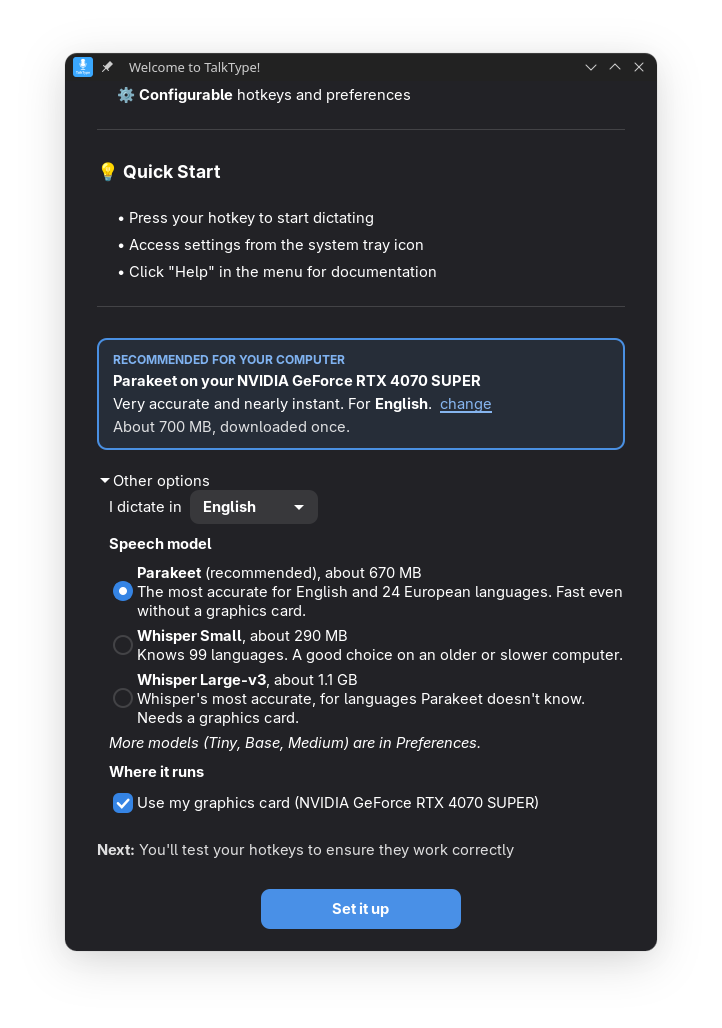
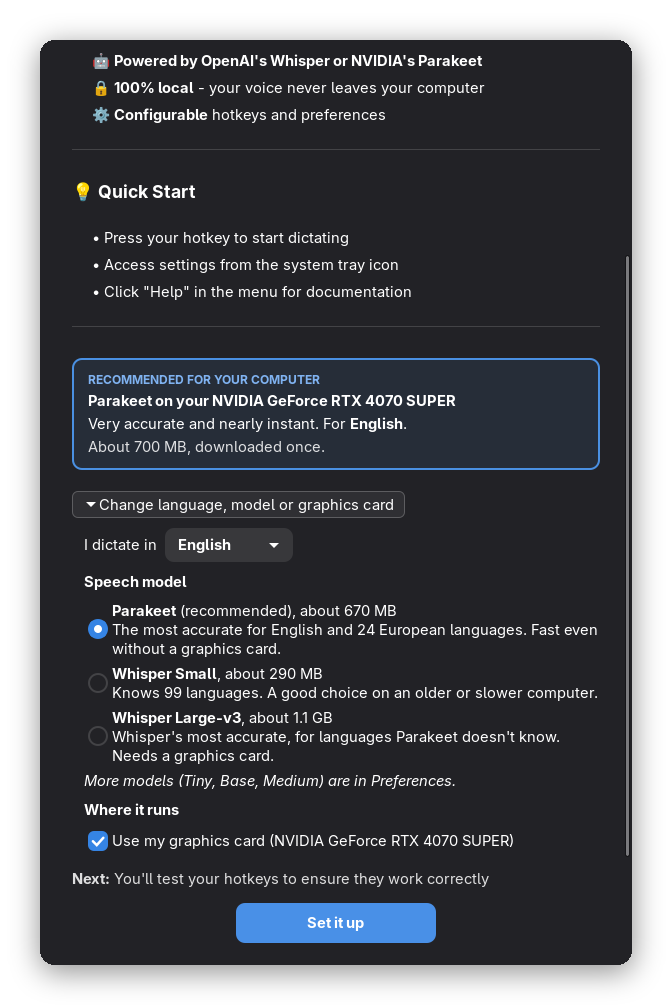
README: a page that shows what TalkType does
A new 30 s demo at the top, recorded by Ron (hold the key, talk, the "no
wait" fix, a spoken email address), with captions so it makes sense with
no sound. A "You say / TalkType types" card and four picture-and-text rows
(setup, Fix a Word, tray, stats) replace the 15-screenshot block; the full
feature list covers 0.14.4/0.14.5; the technical sections fold into
<details>. The welcome screenshots show the current button, not "Other
options". (The unused March clip went in the 0.14.5 release commit.)

Changed region(s): [[0.0312, 0.0308, 0.9688, 0.9871]]

diff --git a/README.md b/README.md
@@ -1,111 +1,94 @@
-# TalkType: voice dictation for Linux
+<p align="center">
+  <img src="io.github.ronb1964.TalkType.png" alt="TalkType" width="110">
+</p>
 
-**Hold a key, talk, let go. Your words show up wherever your cursor is.**
+<h1 align="center">TalkType</h1>
+
+<p align="center">
+  <b>Hold a key, talk, let go. Your words show up wherever your cursor is.</b><br>
+  Free voice dictation for Linux. It runs offline, and it works on Wayland.
+</p>
+
+<p align="center">
+  <a href="https://github.com/ronb1964/TalkType/releases/latest"><img src="https://img.shields.io/github/v/release/ronb1964/TalkType?label=download&color=2ea44f" alt="Download"></a>
+  <a href="https://aur.archlinux.org/packages/talktype-appimage"><img src="https://img.shields.io/aur/version/talktype-appimage" alt="AUR version"></a>
+  <a href="LICENSE"><img src="https://img.shields.io/badge/license-MIT-blue.svg" alt="MIT license"></a>
+  <img src="https://img.shields.io/badge/GNOME%20%C2%B7%20KDE%20%C2%B7%20Sway%20%C2%B7%20X11-supported-555" alt="GNOME, KDE, Sway and X11">
+</p>
+
+<p align="center">
+  <a href="#installation">Install</a> &nbsp;&bull;&nbsp;
+  <a href="#what-it-does">What it does</a> &nbsp;&bull;&nbsp;
+  <a href="#all-the-features">All the features</a> &nbsp;&bull;&nbsp;
+  <a href="CHANGELOG.md">What's new</a>
+</p>
+
+<p align="center">
+  <img src="screenshots/demo.gif" alt="Dictating a letter: you hold the key and talk, the waveform shows TalkType listening, and the words appear. It fixes a 'no wait' correction and turns 'john at gmail dot com' into an email address." width="600">
+</p>
 
 That works on GNOME, KDE, Sway, Hyprland and X11 with no setup, because TalkType reads the key straight from the keyboard instead of asking the desktop for it. Most Linux dictation tools can't do hold-to-talk on Wayland at all.
 
 It's free, it runs completely offline, and nothing you say ever leaves your computer.
 
-[![AUR version](https://img.shields.io/aur/version/talktype-appimage)](https://aur.archlinux.org/packages/talktype-appimage)
-[![GitHub release](https://img.shields.io/github/v/release/ronb1964/TalkType)](https://github.com/ronb1964/TalkType/releases)
-[![License: MIT](https://img.shields.io/badge/License-MIT-blue.svg)](LICENSE)
-[![Linux](https://img.shields.io/badge/platform-Linux-lightgrey)](https://github.com/ronb1964/TalkType)
-
-<p align="center">
-  <img src="screenshots/demo.gif" alt="TalkType in action — press F8, speak, text appears" width="720">
-</p>
-
 ---
 
-## Why TalkType?
-
-Most voice dictation tools on Linux are either cloud-based (privacy concerns), command-line only (not user-friendly), or broken on Wayland. TalkType is different:
-
-- **Global hotkeys that actually work on Wayland** — many Linux dictation tools rely on X11 key grabs (or `pynput`), which Wayland blocks by design. TalkType reads the key at the kernel level via `/dev/input`, below the compositor, so push-to-talk works the same on GNOME, KDE, Sway and Hyprland (X11 too).
-- **100% offline** — All processing happens locally, using Whisper or Parakeet. Nothing is sent to the cloud.
-- **Zero configuration** — Download the AppImage, run it, start talking. First-run wizard handles the rest.
-- **Any desktop environment** — GNOME (with native shell extension), KDE, XFCE, Sway, Hyprland, and more.
-- **Fast without a graphics card** — the Parakeet model gives large-v3 class accuracy in well under a second on an ordinary processor (English and 24 European languages).
-- **GPU accelerated, any brand** — Whisper runs on NVIDIA, AMD or Intel graphics through Vulkan, a 24 MB download. NVIDIA cards can use CUDA (1.4 GB) instead.
-
----
-
-## Screenshots
+## What it does
 
 <p align="center">
-  <img src="screenshots/dictating.png" alt="Dictating a letter in LibreOffice Writer, with TalkType's recording indicator showing" width="90%">
-</p>
-<p align="center">
-  <em>Hold F8 and talk: the orb shows TalkType is listening, and your words land wherever you're typing</em>
+  <img src="screenshots/you-say.png" alt="You say: Let's say three o'clock, no wait, make that four o'clock. TalkType types: Let's say four o'clock. You say: send the plans to john at gmail dot com. TalkType types: john@gmail.com. You say: new paragraph could we meet on Thursday question mark. TalkType types a new paragraph with Could we meet on Thursday?" width="760">
 </p>
 
-<p align="center">
-  <img src="screenshots/welcome-recommended.png" alt="First run: the recommended setup for this computer" width="40%">
-  <img src="screenshots/welcome-other-options.png" alt="First run: Other options, with every choice explained" width="40%">
-</p>
-<p align="center">
-  <em>First run recommends a setup for your computer and language &bull; Other options explains every choice</em>
-</p>
+**It fixes it when you change your mind.** Say "no wait", "scratch that" or "actually" and correct yourself, and a small AI model on your own computer drops the wrong part. Every fix gets checked, and if the AI changed anything else, your words are typed exactly as you said them. It's optional, and it's off until you turn it on.
 
-<p align="center">
-  <img src="screenshots/tray-performance.png" alt="Tray menu with the Performance presets" width="70%">
-</p>
-<p align="center">
-  <em>The tray menu, with the Performance presets</em>
-</p>
+**Commands and addresses come out right.** Say "comma", "new paragraph" or "question mark" and you get the punctuation. Say an email or a web address the way you'd say it out loud and it's written the way it should be.
 
-<p align="center">
-  <img src="screenshots/prefs-general.png" alt="Preferences - General" width="45%">
-  <img src="screenshots/prefs-advanced.png" alt="Preferences - Advanced" width="45%">
-</p>
-<p align="center">
-  <em>Model, graphics card and hotkeys &bull; Dictation cleanup and AI self-corrections</em>
-</p>
+<table>
+<tr>
+<td width="50%"><img src="screenshots/welcome-recommended.png" alt="First run: the recommended setup for this computer"></td>
+<td>
 
-<p align="center">
-  <img src="screenshots/prefs-audio.png" alt="Preferences - Audio" width="45%">
-  <img src="screenshots/prefs-commands.png" alt="Preferences - Commands" width="45%">
-</p>
-<p align="center">
-  <em>Microphone test and recording indicator &bull; Custom voice commands and Fix a Word</em>
-</p>
+### Set up for your computer
 
-<p align="center">
-  <img src="screenshots/prefs-stats.png" alt="Preferences - Stats" width="45%">
-  <img src="screenshots/voice-commands.png" alt="Voice Commands quick reference" width="30%">
-</p>
-<p align="center">
-  <em>Your dictation stats &bull; The Voice Commands quick reference</em>
-</p>
+First run looks at your graphics card and your language and picks a setup for you. On a graphics card, a sentence is typed out in about a fifth of a second. No graphics card is fine too: the default model is fast on an ordinary processor.
 
-<p align="center">
-  <img src="screenshots/help-getting-started.png" alt="Help - Getting Started" width="45%">
-  <img src="screenshots/help-voice-commands.png" alt="Help - Voice Commands" width="45%">
-</p>
-<p align="center">
-  <em>Built-in help with getting started guide &bull; Complete voice commands reference</em>
-</p>
+Want something else? One button shows every choice, with what it costs you in download size and speed.
 
----
+</td>
+</tr>
+<tr>
+<td>
 
-## Features
+### Teach it your words
 
-- **Dual Hotkeys Always Active** - F8 (hold-to-talk) AND F9 (tap-to-toggle) simultaneously - fully customizable
-- **Hands-free** (optional) - Double-tap F9, talk, and the recording stops by itself when you go quiet. A single tap is still a normal on/off toggle, so long dictation with thinking pauses is never cut off
-- **AI-Powered Transcription** - OpenAI's Whisper models (tiny to large-v3), or NVIDIA's Parakeet for fast, accurate dictation with no GPU
-- **GPU Acceleration** - Use your graphics card for much faster transcription. Vulkan (a 24 MB download) works on NVIDIA, AMD and Intel; on NVIDIA you can also use CUDA (1.4 GB). TalkType times your graphics chip against your processor first and only uses it if it's faster
-- **Smart Text Processing** - Auto-punctuation, smart quotes, auto-spacing
-- **Voice Commands** - Say "comma", "period", "new paragraph", "undo last word", and more
-- **Custom Commands** - Define your own phrase shortcuts (e.g., "my email" → your@email.com)
-- **Visual Feedback** - On-screen recording indicator that reacts to your voice, with four styles (orb, waveform, frequency bars, radial), custom colors, and positioning anywhere on screen
-- **Dictation Cleanup** (optional) - Remove "um", "uh" and accidentally repeated words instantly, and optionally let a small AI model that runs on your own computer fix self-corrections ("meet at 3, no wait, 4" becomes "meet at 4"). Every AI edit is checked, and if it changed anything besides the correction your words are typed exactly as spoken. The AI uses your graphics card if you have one (NVIDIA, AMD or Intel) and your processor otherwise
-- **Fix a Word** - Teach TalkType a word it keeps getting wrong. Pick it out of a recent dictation, type the right spelling, and it's fixed in every dictation from then on. Great for names, brands and technical terms, and it works with every speech model
-- **Your Stats** - Pick Your Stats from the tray menu to see how many words you've dictated today, this week and all time, how much typing time it saved (at your own typing speed), and a chart of the last two weeks. Only the numbers are kept, on your computer, never what you said
-- **Recent Dictations** - Your last 20 dictations in the tray menu. Hover to read one, click to copy it again, handy when text lands in the wrong window. Kept in memory only and wiped at logout
-- **Private by Default** - Fully offline transcription, and your dictated text is never written to the log (opt-in only, for troubleshooting)
-- **GNOME Integration** - Native shell extension for GNOME desktop
-- **Smart Updates** - Built-in update checker that updates the right way for how you installed: through your package manager on `.deb`/`.rpm` (one click, one password prompt), in place for the AppImage, or via your AUR helper on Arch
-- **Wayland Native** - Works seamlessly on modern Linux desktops
+Names, brands, the part numbers you use every day. If TalkType keeps getting one wrong, pick it out of a recent dictation with **Fix a Word**, type it the right way, and it's fixed from then on.
+
+You can also make your own shortcuts, like "my email" for your address.
+
+</td>
+<td width="50%"><img src="screenshots/prefs-commands.png" alt="Preferences, Commands tab: custom voice commands and Fix a Word"></td>
+</tr>
+<tr>
+<td width="50%"><img src="screenshots/tray-performance.png" alt="Tray menu with the Performance presets"></td>
+<td>
+
+### Everything from the tray
+
+Start and stop dictation, switch between Recommended, Lightest and Battery saver, or grab one of your last 20 dictations back if the text landed in the wrong window. Those are kept in memory only and gone when you log out.
+
+</td>
+</tr>
+<tr>
+<td>
+
+### See how much typing it saves you
+
+Your Stats shows the words you've dictated today, this week and all time, and how long it would've taken to type them. Only the numbers are kept, never what you said.
+
+</td>
+<td width="50%"><img src="screenshots/prefs-stats.png" alt="Preferences, Stats tab"></td>
+</tr>
+</table>
 
 ---
 
@@ -195,7 +178,65 @@ enough interest and I'll make it happen.
 
 ---
 
-## Voice Commands
+## All the features
+
+- **Two hotkeys, both always on.** Hold F8 to talk, or tap F9 to start and tap again to stop. Pick any keys you like.
+- **Hands-free if you want it.** Double-tap F9, talk, and it stops by itself when you go quiet. A single tap still works as a plain on/off switch, so a long dictation with thinking pauses never gets cut off.
+- **Your choice of speech model.** NVIDIA's Parakeet is the default: fast on any processor, for English and 24 European languages. OpenAI's Whisper covers 99 languages, from Tiny up to Large-v3.
+- **Any graphics card.** NVIDIA, AMD or Intel through Vulkan, a 24 MB download. On NVIDIA you can use CUDA instead. TalkType times your graphics chip against your processor first and only uses it if it's really faster.
+- **Corrections.** Say "no wait", "scratch that", "I mean" or "actually" and the optional AI fixes it. It also drops "um", "uh" and stutters.
+- **Voice commands.** "comma", "period", "new paragraph", "undo last word", "delete last three sentences" and more. See the full list below.
+- **Email and web addresses.** "john at gmail dot com" types john@gmail.com, and "github dot com" types github.com.
+- **Your own commands.** Make a phrase type anything you want, like "my email" for your address.
+- **Fix a Word.** Teach it a name or term it keeps getting wrong.
+- **Recent Dictations.** Your last 20, one click to copy. Kept in memory only.
+- **Your Stats.** Words dictated and typing time saved, at your own typing speed.
+- **A recording indicator you can style.** Orb, waveform, frequency bars or radial, any color, anywhere on screen. It reacts to your voice so you know it's listening.
+- **Tells you why when it can't type.** If a dictation can't be typed into the window, TalkType says why and what fixes it.
+- **Private.** Everything runs on your computer, and what you dictate is never written to a log unless you turn that on for troubleshooting.
+- **GNOME extension.** A native panel menu on GNOME, and a tray icon everywhere else.
+- **Updates the right way.** Through your package manager for the .deb and .rpm, in place for the AppImage, or through your AUR helper on Arch.
+
+---
+
+## More
+
+<details>
+<summary><b>More screenshots</b></summary>
+
+<p align="center">
+  <img src="screenshots/dictating.png" alt="Dictating a letter in LibreOffice Writer, with TalkType's recording indicator showing" width="90%">
+</p>
+<p align="center"><em>Hold F8 and talk: the indicator shows TalkType is listening, and your words land wherever you're typing</em></p>
+
+<p align="center">
+  <img src="screenshots/welcome-recommended.png" alt="First run: the recommended setup for this computer" width="40%">
+  <img src="screenshots/welcome-other-options.png" alt="First run: changing the language, model or graphics card" width="40%">
+</p>
+<p align="center"><em>First run recommends a setup &bull; one button shows every choice</em></p>
+
+<p align="center">
+  <img src="screenshots/prefs-general.png" alt="Preferences, General" width="45%">
+  <img src="screenshots/prefs-advanced.png" alt="Preferences, Advanced" width="45%">
+</p>
+<p align="center"><em>Model, graphics card and hotkeys &bull; Dictation cleanup and AI self-corrections</em></p>
+
+<p align="center">
+  <img src="screenshots/prefs-audio.png" alt="Preferences, Audio" width="45%">
+  <img src="screenshots/voice-commands.png" alt="Voice Commands quick reference" width="30%">
+</p>
+<p align="center"><em>Microphone test and recording indicator &bull; The Voice Commands quick reference</em></p>
+
+<p align="center">
+  <img src="screenshots/help-getting-started.png" alt="Help, Getting Started" width="45%">
+  <img src="screenshots/help-voice-commands.png" alt="Help, Voice Commands" width="45%">
+</p>
+<p align="center"><em>Built-in help</em></p>
+
+</details>
+
+<details>
+<summary><b>Voice commands, the full list</b></summary>
 
 ### Punctuation
 | Say This | Result |
@@ -240,9 +281,10 @@ Say **"literal"** before any command to output the word instead:
 - "literal comma" → types "comma" (not ,)
 - "literal period" → types "period" (not .)
 
----
+</details>
 
-## AI Models
+<details>
+<summary><b>Speech models</b></summary>
 
 Choose the right model for your needs in Preferences → General:
 
@@ -258,9 +300,10 @@ Choose the right model for your needs in Preferences → General:
 > **Tip:** First run recommends a setup for your computer and language, and tray → Performance → **Recommended for this computer** puts you back on it any time.
 > **Parakeet** is the default. It's a different engine that NVIDIA made, and it runs on your processor (or on your graphics card through Vulkan). It doesn't cover Chinese, Japanese, Korean, Arabic and other non-European languages. For those, first run picks Whisper: Small on the processor, or Large-v3 on a graphics card.
 
----
+</details>
 
-## GPU Acceleration
+<details>
+<summary><b>Graphics cards</b></summary>
 
 A graphics card makes the Whisper models much faster, and with Vulkan it speeds up Parakeet too. There are two ways to use one:
 
@@ -275,9 +318,10 @@ Before switching to Vulkan, TalkType times your graphics chip against your proce
 
 Parakeet doesn't need a graphics card, since it's already fast on the processor. With the device set to Vulkan it runs on the graphics card anyway: on an RTX 4070 Super, a minute of speech took 0.2 seconds instead of 2, with the same accuracy. That needs a second copy of Parakeet in the graphics engine's format (669 MB). The processor copy stays too, as a fallback. CUDA can't run Parakeet.
 
----
+</details>
 
-## Configuration
+<details>
+<summary><b>Settings file</b></summary>
 
 Settings are stored in `~/.config/talktype/config.toml`:
 
@@ -295,9 +339,45 @@ auto_space = true         # Auto-space between utterances
 auto_period = true        # Add period at end of sentences
 ```
 
----
+</details>
 
-## Development
+<details>
+<summary><b>Troubleshooting</b></summary>
+
+### Text not appearing?
+- Check ydotoold is running: `systemctl --user status ydotoold`
+- Verify socket exists: `ls $XDG_RUNTIME_DIR/.ydotool_socket`
+
+### Hotkey not working?
+- Another app may be using F8/F9 - try different keys in Preferences
+- Ensure TalkType service is running (check tray icon)
+
+### No hotkey works at all?
+TalkType reads your keyboard directly, which requires your account to be in the
+system's `input` group. Without it no key can be detected, even though the app
+looks like it started fine.
+
+- Preferences → Advanced → Typing Setup → **Fix Typing Permissions**
+- **Then restart your computer.** Logging out and back in is often not enough —
+  a lingering user session keeps the old group list alive
+- Check it worked with `groups`; the list should include `input`
+
+Most common on Fedora, where permission to *type* is granted separately from
+permission to *read keys*, so typing can work while hotkeys do not.
+
+### Transcription slow?
+- Use your graphics card if you have one (see [GPU Acceleration](#gpu-acceleration))
+- Try Parakeet, or a smaller Whisper model (tiny or base)
+- Tray menu → Performance → Recommended for this computer
+
+### Tray icon not visible (GNOME)?
+- TalkType offers to install its GNOME extension on first run
+- Or manually: Preferences → Advanced → Install Extension
+
+</details>
+
+<details>
+<summary><b>Building from source</b></summary>
 
 ### From Source
 
@@ -341,52 +421,17 @@ systemctl --user daemon-reload
 systemctl --user enable --now ydotoold.service
 ```
 
----
-
-## Troubleshooting
-
-### Text not appearing?
-- Check ydotoold is running: `systemctl --user status ydotoold`
-- Verify socket exists: `ls $XDG_RUNTIME_DIR/.ydotool_socket`
-
-### Hotkey not working?
-- Another app may be using F8/F9 - try different keys in Preferences
-- Ensure TalkType service is running (check tray icon)
-
-### No hotkey works at all?
-TalkType reads your keyboard directly, which requires your account to be in the
-system's `input` group. Without it no key can be detected, even though the app
-looks like it started fine.
-
-- Preferences → Advanced → Typing Setup → **Fix Typing Permissions**
-- **Then restart your computer.** Logging out and back in is often not enough —
-  a lingering user session keeps the old group list alive
-- Check it worked with `groups`; the list should include `input`
-
-Most common on Fedora, where permission to *type* is granted separately from
-permission to *read keys*, so typing can work while hotkeys do not.
-
-### Transcription slow?
-- Use your graphics card if you have one (see [GPU Acceleration](#gpu-acceleration))
-- Try Parakeet, or a smaller Whisper model (tiny or base)
-- Tray menu → Performance → Recommended for this computer
-
-### Tray icon not visible (GNOME)?
-- TalkType offers to install its GNOME extension on first run
-- Or manually: Preferences → Advanced → Install Extension
+</details>
 
 ---
 
 ## License
 
-MIT License - see [LICENSE](LICENSE) file for details.
-
----
+MIT License. See [LICENSE](LICENSE) for details.
 
 <p align="center">
-  <b>TalkType</b> - Voice dictation that just works.<br>
-  <a href="https://github.com/ronb1964/TalkType/releases">Download</a> &bull;
+  <a href="https://github.com/ronb1964/TalkType/releases/latest">Download</a> &bull;
   <a href="CHANGELOG.md">Changelog</a> &bull;
-  <a href="https://github.com/ronb1964/TalkType/issues">Report Bug</a> &bull;
-  <a href="https://github.com/ronb1964/TalkType/issues">Request Feature</a>
+  <a href="https://github.com/ronb1964/TalkType/issues">Report a bug</a> &bull;
+  <a href="https://github.com/ronb1964/TalkType/discussions">Ideas and questions</a>
 </p>
